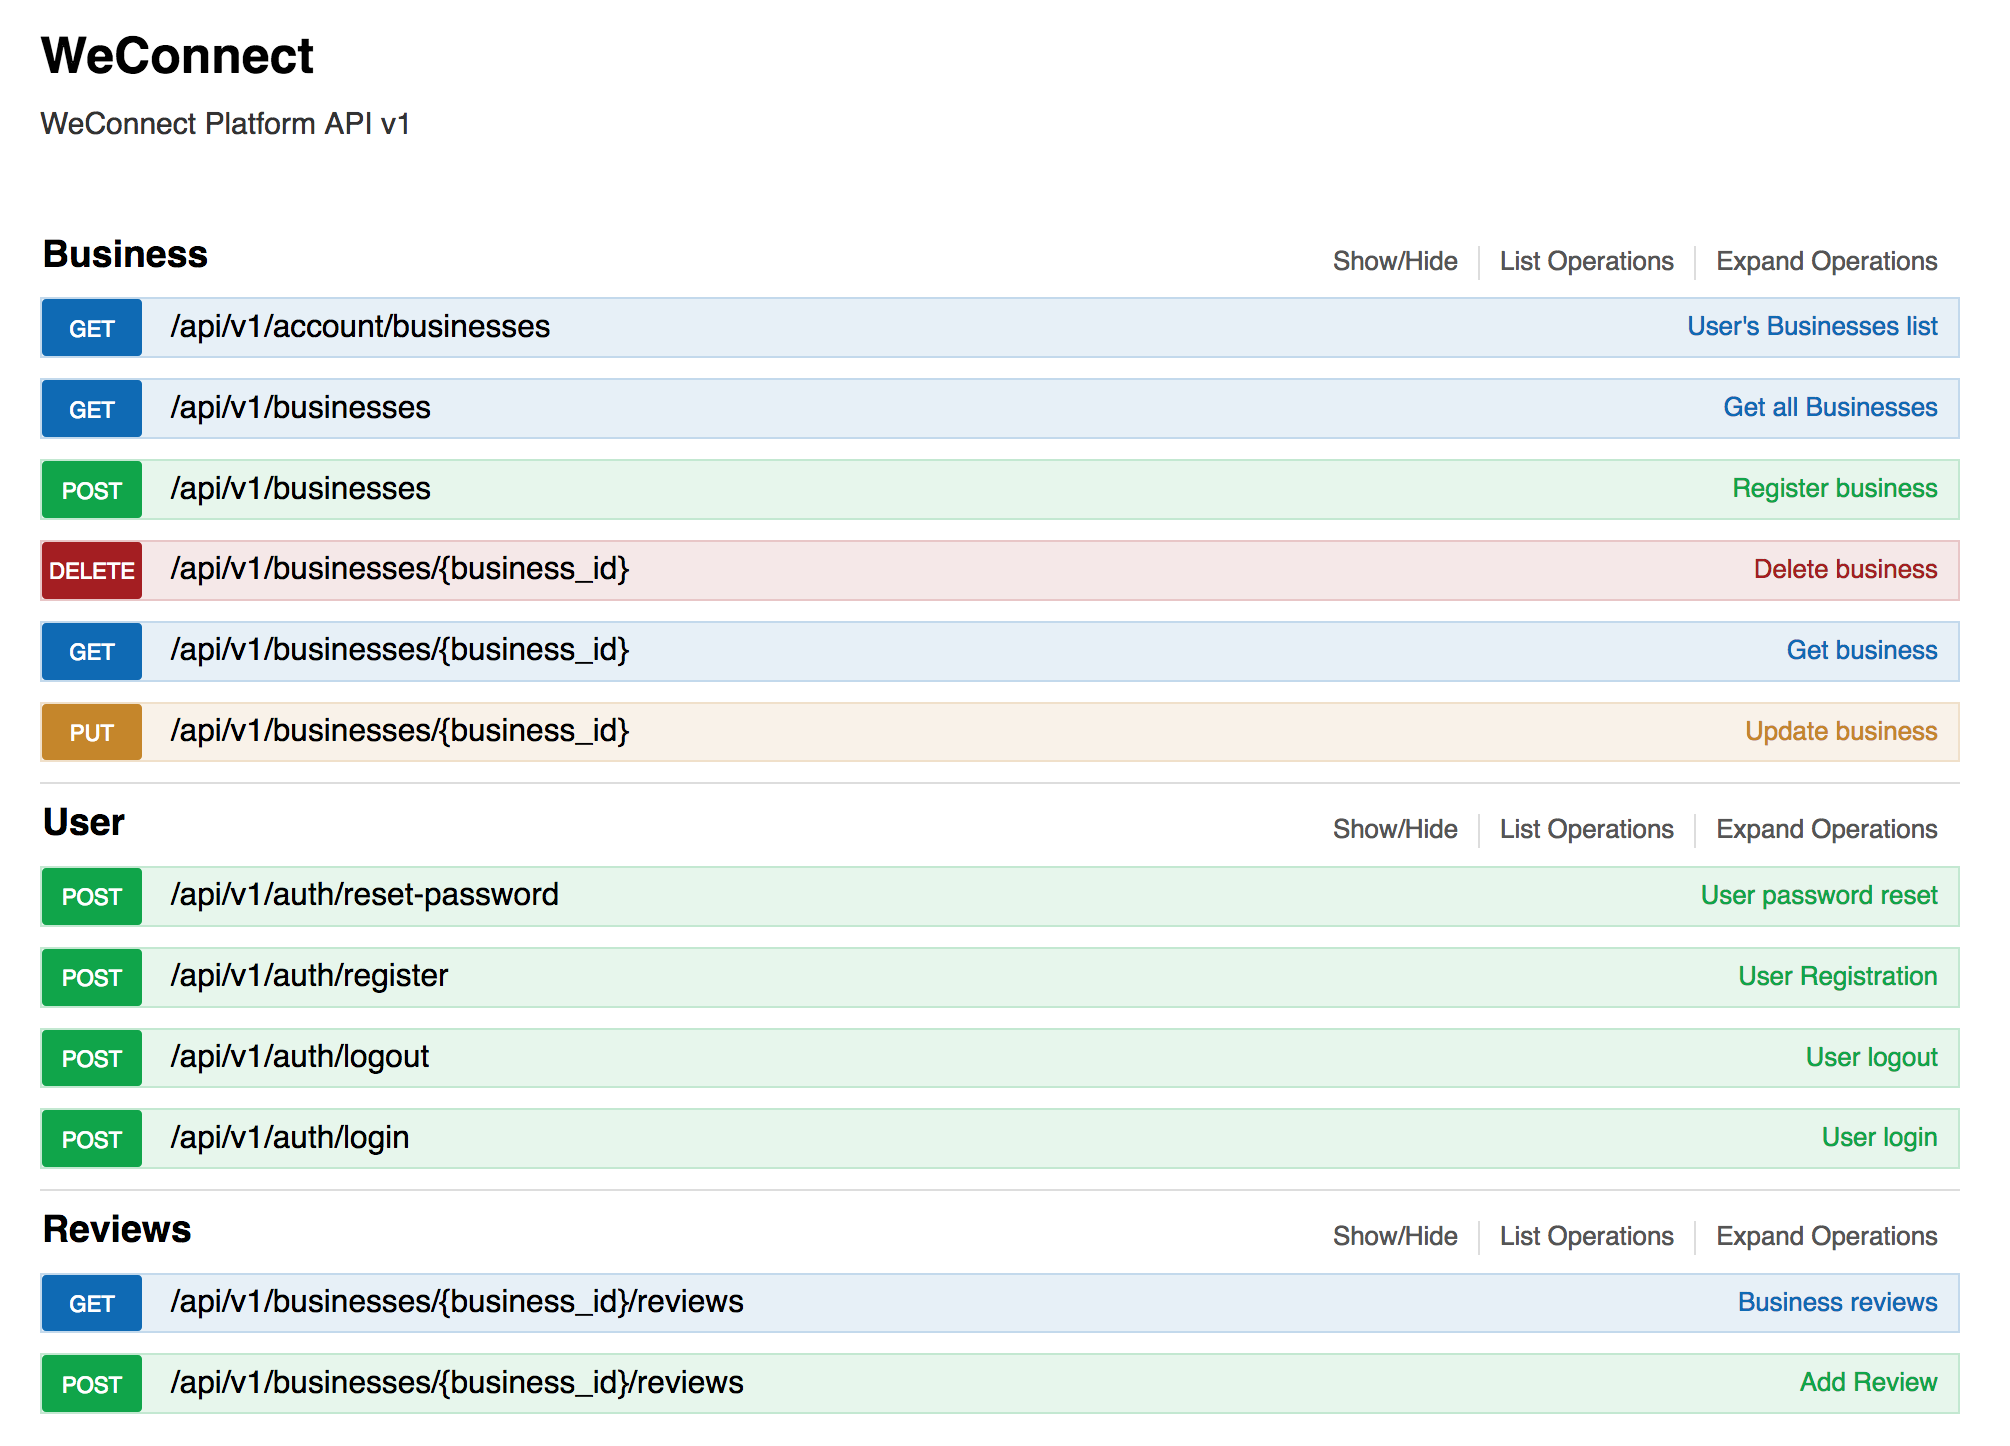
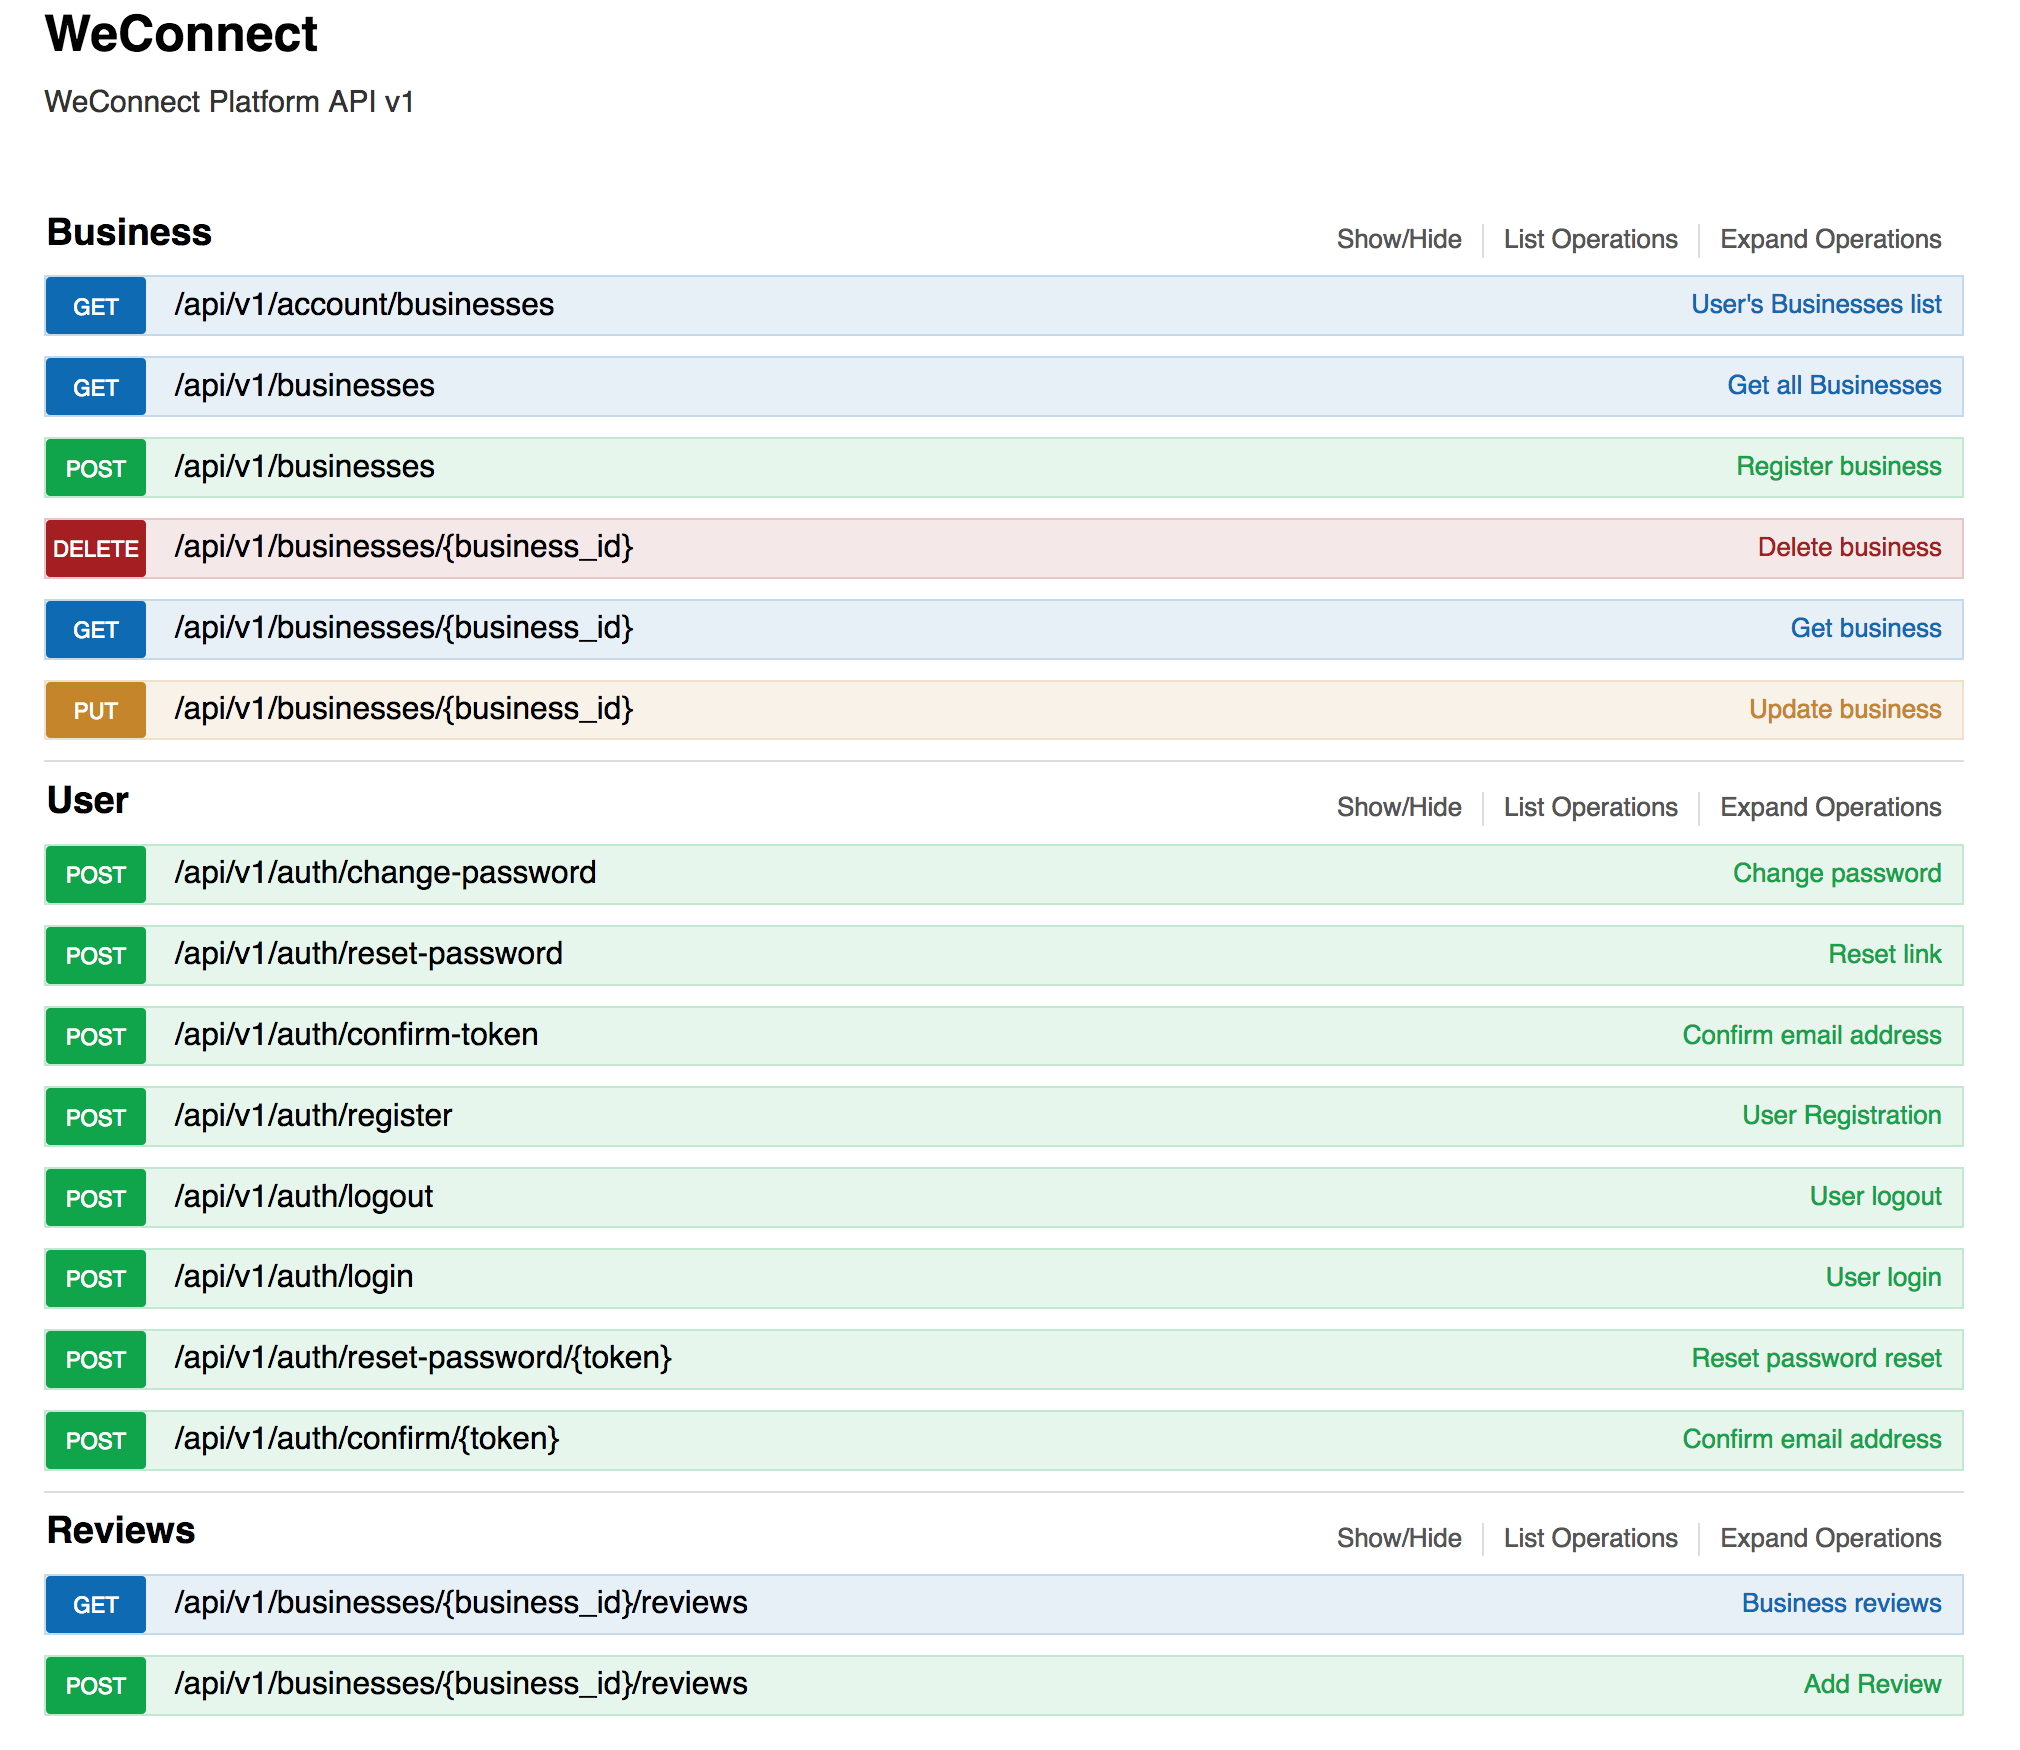
[Chore] Update README

Changed region(s): [[0.0, 0.1245, 0.9871, 0.9959], [0.0, 0.0, 0.1851, 0.0934]]

diff --git a/README.md b/README.md
@@ -71,41 +71,17 @@ Create file name it `.env` and add the following contents:
 
 ```sh
 DEBUG=True
-SECRET_KEY=any_chosen_secret_key
-DATABASE_URI='postgresql://db_user:db_password@127.0.0.1:5432/db_name'
+ENV='development'
+SECRET_KEY='_custom_secret_key'
+DATABASE_URI='postgresql://db_user:db_pass@db_host:db_port/db_name'
+MAIL_SERVER='smtp.mailhost.net'
+MAIL_PORT=25
+MAIL_USERNAME='mail_username'
+MAIL_PASSWORD='mail_password'
+MAIL_DEFAULT_SENDER='default@mailhost.com'
 ```
 
-**OR**
-
-***On windows(cmd)*:**
-
-```sh
-SET SECRET_KEY=any_chosen_secret_key
-```
-
-```sh
-SET DEBUG=True
-```
-
-```sh
-SET DATABASE_URI='postgresql://db_user:db_password@127.0.0.1:5432/db_name'
-```
-
-***On Unix based system*:**
-
-```sh
-export SECRET_KEY=any_chosen_secret_key
-```
-
-```sh
-export DEBUG=True
-```
-
-```sh
-export DATABASE_URI='postgresql://db_user:db_password@127.0.0.1:5432/db_name'
-```
-
-
+To send emails, make sure that you have SMTP server to use. 
 
 ### Run the application
 
@@ -131,31 +107,45 @@ View the API usage (Documentation) in a browser via: http://127.0.0.1:5000/api/v
 
 ### API Endpoints
 
-**`POST /api/v1/auth/register`** *User registration*
+**`POST /auth/register`** *User registration*
 
-**`POST /api/v1/auth/login`** *User login*
+**`POST /auth/login`** *User login*
 
-**`GET /api/v1/businesses/<business-id>/reviews`** *Get all the reviews about a business*
+**`GET /businesses/<business-id>/reviews`** *Get all the reviews about a business*
 
-**`GET /api/v1/businesses/<business-id>`** *Get a business details*
+**`GET /businesses/<business-id>`** *Get a business details*
 
-**`GET /api/v1/businesses`** *Get all registered businesses*
+**`GET /businesses`** *Get all registered businesses*
+
+
 
 <u>**Protected endpoints**</u>: Access token is required (`Authorization` header token)
 
-**`POST /api/v1/auth/logout`** *User logout*
+**`POST /auth/logout`** *User logout*
 
-**`POST /api/v1/auth/reset-password`** *Change password*
+**`POST /auth/reset-password`** *Request password reset*
 
-**`POST /api/v1/businesses`** *Register business*
+**`POST /auth/reset-password/<token>`** *Reset password *
 
-**`PUT /api/v1/businesses/<business-id>`** *Update business details*
+**`POST /businesses`** *Register business*
 
-**`DELETE /api/v1/businesses/<business-id>`** *Delete business*
+**`PUT /businesses/<business-id>`** *Update business details*
 
-**`GET /api/v1/account/businesses`** *Get authenticated user's registered businesses*
+**`DELETE /businesses/<business-id>`** *Delete business*
 
-**`POST /api/v1/businesses/<business-id>/reviews`** *Post a review about business*
+**`GET /account/businesses`** *Get authenticated user's registered businesses*
+
+**`POST /businesses/<business-id>/reviews`** *Post a review about business*
+
+**`POST /auth/change-password`** Change password
+
+**`POST /auth/confirm-token`** Check if confirm email token exists
+
+**`POST /auth/confirm/<token>`** Confirm email
+
+
+
+
 
 
 
@@ -175,15 +165,15 @@ View the API usage (Documentation) in a browser via: http://127.0.0.1:5000/api/v
 
 WeConnect use the following UI technology:
 
-- CSS, HTML, JS
+- ReactJS / Redux
+
+Check the front app [here](https://connectship.herokuapp.com/)
 
 
-- [Bootstrap 4](https://getbootstrap.com/) (HTML, CSS, and JS Framework to develop UI) 
-- Font icons : [Ionicons](http://ionicons.com/)
 
-Have a look at  the UI follow the link for a demo **[Demo](https:///muhozi.github.io/WeConnect/templates)**
+## Thank you!
 
-
+Thank you for checking this out, I would love to hear any feedback from you. Cheers 🎉
 
 ## Author
 
